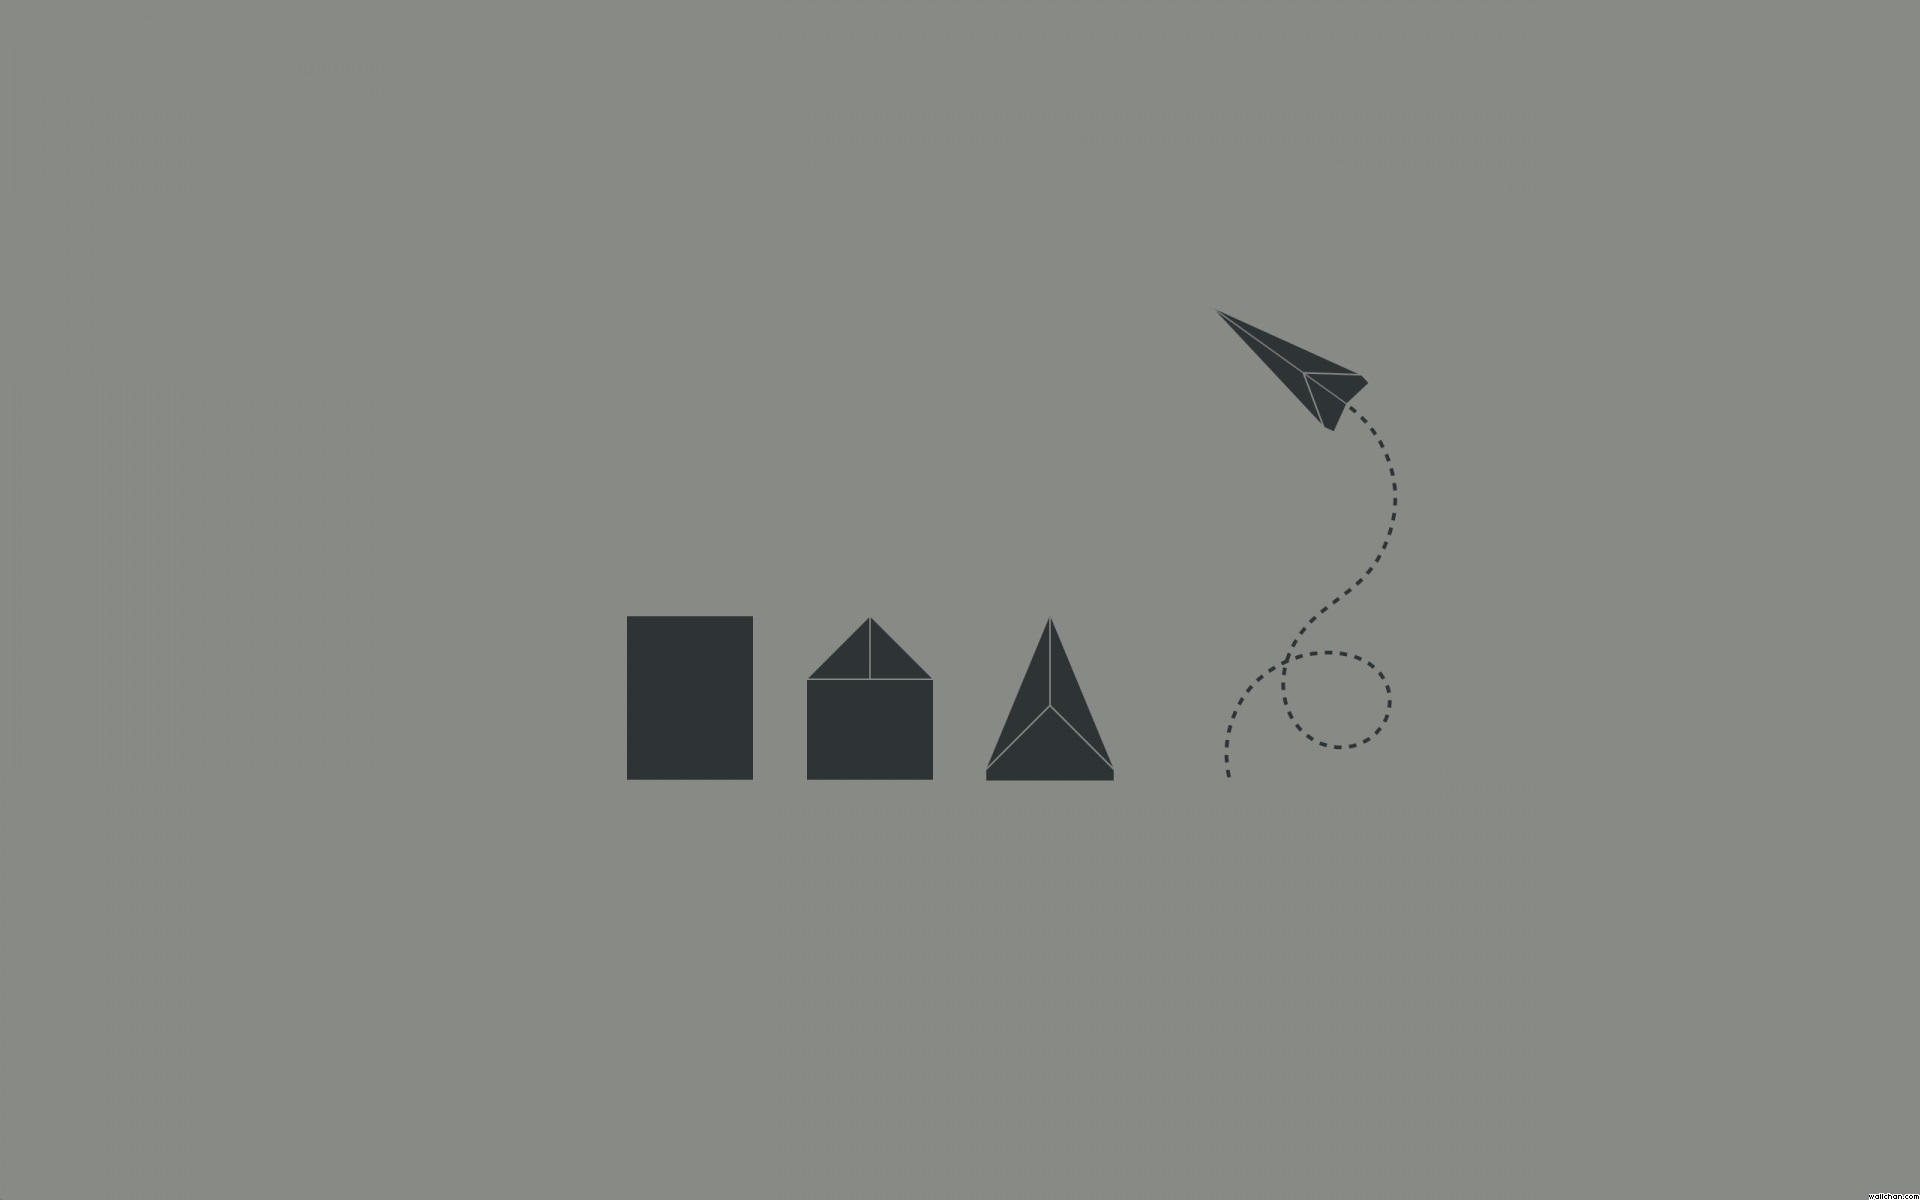
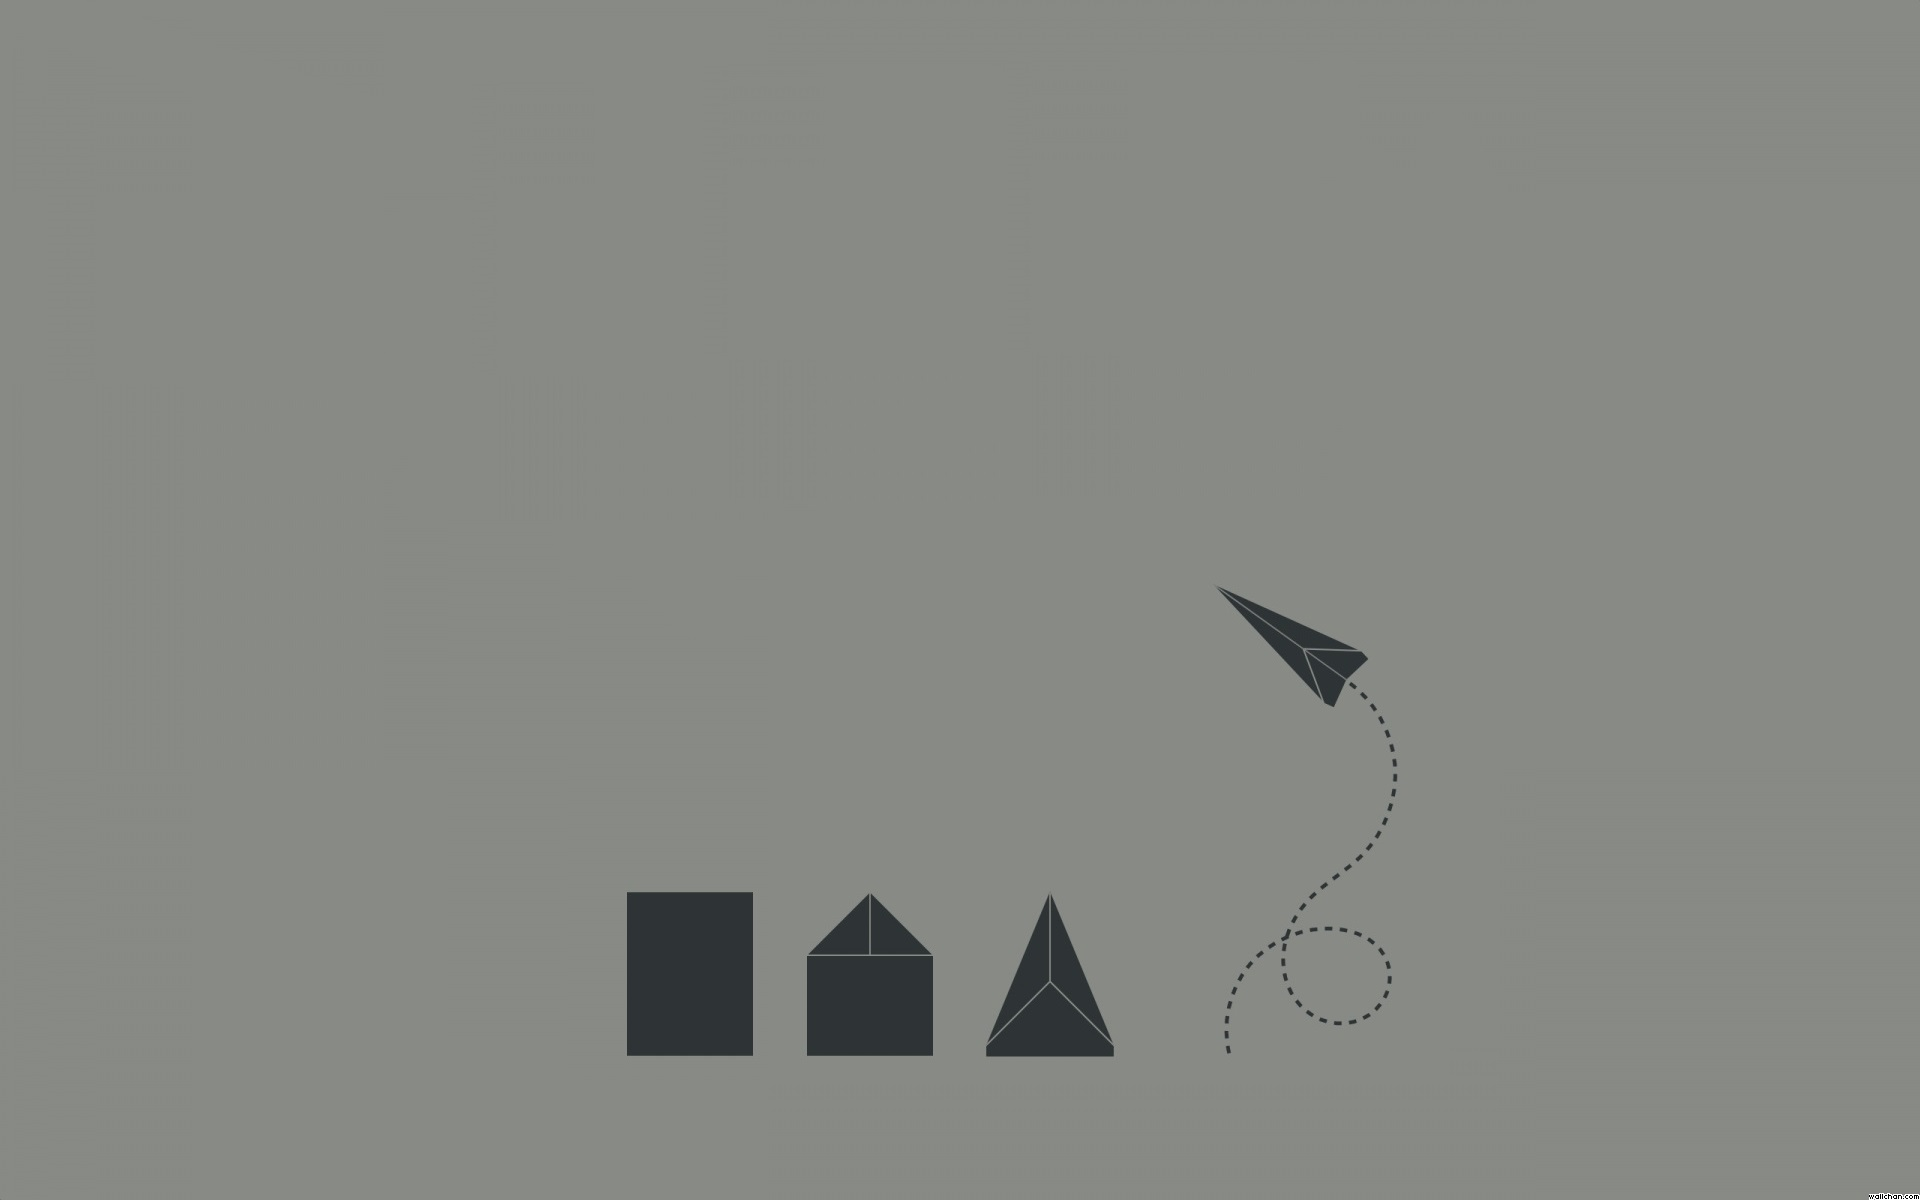
CSS responsivo

diff --git a/css/mensaje.css b/css/mensaje.css
@@ -17,6 +17,8 @@ body {
 	height:100%;
 	font-family: 'Open Sans', sans-serif;
 	background-image: url("../images/background-plane.jpg");
+	background-repeat:no-repeat;
+	background-position:center;
 	/*background: #092756;
 	background: -moz-radial-gradient(0% 100%, ellipse cover, rgba(104,128,138,.4) 10%,rgba(138,114,76,0) 40%),-moz-linear-gradient(top,  rgba(57,173,219,.25) 0%, rgba(42,60,87,.4) 100%), -moz-linear-gradient(-45deg,  #670d10 0%, #092756 100%);
 	background: -webkit-radial-gradient(0% 100%, ellipse cover, rgba(104,128,138,.4) 10%,rgba(138,114,76,0) 40%), -webkit-linear-gradient(top,  rgba(57,173,219,.25) 0%,rgba(42,60,87,.4) 100%), -webkit-linear-gradient(-45deg,  #670d10 0%,#092756 100%);
